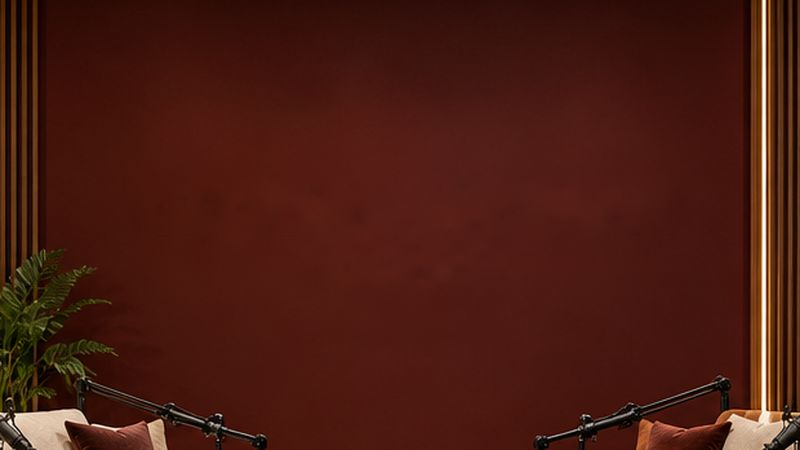
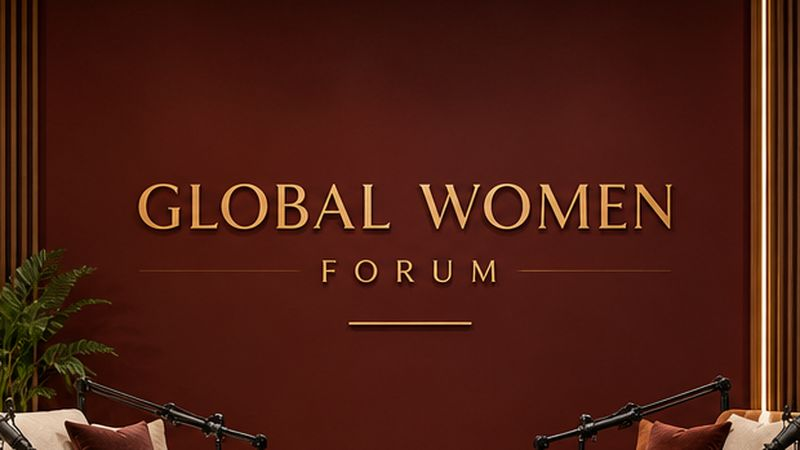
Restore wall lettering; studios Boardroom, Executive, Lounge; full-frame mobile hero; host bio
Claude-Session: https://claude.ai/code/session_01TFe7T9GAZdAJhXa4UkGFGh

diff --git a/index.html b/index.html
@@ -269,6 +269,23 @@ body::before { content: ""; position: fixed; inset: 0 0 auto; height: env(safe-a
 .program .btn { justify-self: start; }
 .programs-note { margin-top: 28px; font-size: var(--t-sm); color: rgba(255,244,234,.65); }
 
+/* Host */
+.host { padding-block: clamp(90px, 11vw, 150px); background: var(--paper); }
+.host .wrap { display: grid; grid-template-columns: 5fr 7fr; gap: clamp(36px, 6vw, 96px); align-items: start; }
+.host-photo { margin: 0; position: sticky; top: 40px; display: grid; gap: 12px; }
+.host-photo img, .host-mono { width: 100%; aspect-ratio: 4 / 5; object-fit: cover; border-radius: 6px; }
+.host-mono { display: grid; place-items: center; background: var(--bordo); color: var(--peach); font: 400 clamp(4rem, 3rem + 4vw, 7rem)/1 var(--f-display); font-style: italic; }
+.host-photo figcaption { font-size: var(--t-sm); color: var(--ink-soft); }
+.host-text { display: grid; gap: 18px; max-width: 64ch; }
+.host-text .label { color: var(--orange); }
+.host-text h2 { font-size: var(--t-h2); }
+.host-lead { font: 400 clamp(1.4rem, 1.1rem + 1vw, 1.9rem)/1.3 var(--f-display); }
+.host-text > p:not(.label):not(.host-lead) { color: var(--ink-soft); }
+.host-facts { list-style: none; margin: 10px 0 0; padding: 0; display: grid; grid-template-columns: repeat(3, minmax(0, 1fr)); gap: 16px; border-top: 1px solid var(--line); padding-top: 22px; }
+.host-facts li { display: grid; gap: 6px; font-size: var(--t-sm); color: var(--ink-soft); }
+.host-facts b { font: 400 2.4rem/1 var(--f-display); color: var(--orange); }
+.host-more { font-size: var(--t-sm); }
+
 /* Chamber */
 .chamber { background: var(--teal-deep); color: var(--cream); }
 .chamber-grid { display: grid; grid-template-columns: 1fr 1fr; min-height: 640px; }
@@ -425,6 +442,8 @@ body::before { content: ""; position: fixed; inset: 0 0 auto; height: env(safe-a
   .mag { grid-template-columns: minmax(0, 1fr); }
   .mag .btn { justify-self: start; }
   .chamber-grid { grid-template-columns: minmax(0, 1fr); }
+  .host .wrap { grid-template-columns: minmax(0, 1fr); }
+  .host-photo { position: static; max-width: 420px; }
   .chamber-text { padding-left: var(--gutter); }
   .steps { grid-template-columns: repeat(2, minmax(0, 1fr)); row-gap: 24px; }
   .botanic { --w: clamp(130px, 34vw, 220px); --op: .18; }
@@ -432,7 +451,14 @@ body::before { content: ""; position: fixed; inset: 0 0 auto; height: env(safe-a
 }
 @media (max-width: 600px) {
   .nav .btn { display: none; }
-  .hero .wrap { padding-block: 96px 24px; }
+  .hero { min-height: 0; display: block; background: var(--teal); }
+  .slides { position: relative; aspect-ratio: 3 / 2; }
+  .slide { object-position: 50% 50%; }
+  .hero::after { inset: 0 0 auto; height: 34vw; background: linear-gradient(180deg, rgba(6,26,26,.6), rgba(6,26,26,0)); }
+  .hero-glow { display: none; }
+  .hero .wrap { padding-block: 28px 22px; }
+  .hero-center { padding-bottom: 26px; }
+  .hero-center p { text-shadow: none; }
   .hero-ctas { width: 100%; flex-direction: column; }
   .story { font-size: .7rem; }
   .studio-top { margin-bottom: 14px; }
@@ -441,6 +467,7 @@ body::before { content: ""; position: fixed; inset: 0 0 auto; height: env(safe-a
   .studio-info dl:last-of-type { grid-column: 1 / -1; }
   .steps, .form, .plans { grid-template-columns: minmax(0, 1fr); }
   .price-list li { grid-template-columns: minmax(0, 1fr); }
+  .host-facts { grid-template-columns: minmax(0, 1fr); }
   .price-list .price { grid-column: 1; grid-row: auto; text-align: left; }
 }
 @media (prefers-reduced-motion: reduce) {
@@ -462,7 +489,7 @@ body::before { content: ""; position: fixed; inset: 0 0 auto; height: env(safe-a
       <li><a href="#cennik">Cennik</a></li>
       <li><a href="#pakiety">Pakiety TV</a></li>
       <li><a href="#programy">Programy</a></li>
-      <li><a href="#izba">O Izbie</a></li>
+      <li><a href="#prowadzaca">Prowadząca</a></li>
       <li><a href="#faq">FAQ</a></li>
       <li><a href="#rezerwacja">Rezerwacja</a></li>
     </ul>
@@ -474,9 +501,9 @@ body::before { content: ""; position: fixed; inset: 0 0 auto; height: env(safe-a
 <main id="top">
   <section class="hero" id="hero">
     <div class="slides">
-      <img class="slide is-active" src="assets/studio-teal-sunset.jpg" alt="Studio Oasis: dwa pomarańczowe aksamitne fotele i morska ściana z roślinami" width="1600" height="1067" fetchpriority="high">
-      <img class="slide" src="assets/studio-forum.jpg" alt="Studio Bordeaux: kremowa i rdzawa sofa z mikrofonami, okrągły stolik z orzecha i bordowa ściana" width="1600" height="1067">
-      <img class="slide" src="assets/studio-ivory-sculpture.jpg" alt="Studio Amber: kremowy stół i dwa bordowe fotele z mikrofonami" width="1600" height="1067">
+      <img class="slide is-active" src="assets/studio-teal-sunset.jpg" alt="Studio Lounge: dwa pomarańczowe aksamitne fotele i morska ściana z roślinami" width="1600" height="1067" fetchpriority="high">
+      <img class="slide" src="assets/studio-forum.jpg" alt="Studio Boardroom: kremowa i rdzawa sofa z mikrofonami, okrągły stolik z orzecha i bordowa ściana z logo" width="1600" height="1067">
+      <img class="slide" src="assets/studio-ivory-sculpture.jpg" alt="Studio Executive: kremowy stół i dwa bordowe fotele z mikrofonami" width="1600" height="1067">
     </div>
     <div class="hero-glow" id="hero-glow"></div>
     <div class="wrap">
@@ -489,9 +516,9 @@ body::before { content: ""; position: fixed; inset: 0 0 auto; height: env(safe-a
         </div>
       </div>
       <div class="stories" aria-label="Studia">
-        <button class="story is-active" type="button" data-slide="0"><span class="bar"><i></i></span><span>Oasis</span></button>
-        <button class="story" type="button" data-slide="1"><span class="bar"><i></i></span><span>Bordeaux</span></button>
-        <button class="story" type="button" data-slide="2"><span class="bar"><i></i></span><span>Amber</span></button>
+        <button class="story is-active" type="button" data-slide="0"><span class="bar"><i></i></span><span>Lounge</span></button>
+        <button class="story" type="button" data-slide="1"><span class="bar"><i></i></span><span>Boardroom</span></button>
+        <button class="story" type="button" data-slide="2"><span class="bar"><i></i></span><span>Executive</span></button>
       </div>
     </div>
   </section>
@@ -514,14 +541,14 @@ body::before { content: ""; position: fixed; inset: 0 0 auto; height: env(safe-a
     <section class="studio studio--forum has-plants">
       <span class="botanic" data-plant="sprig" style="right:-30px; top:-20px; --rot:-150deg; --w: clamp(150px, 16vw, 250px)"></span>
       <div class="wrap">
-        <div class="studio-top"><h2><em>Bordeaux</em></h2><span class="label">Największe studio · talk-show i panele</span></div>
-        <figure data-hotspots="forum"><img src="assets/studio-forum.jpg" alt="Plan Bordeaux z dwiema sofami i sześcioma mikrofonami" width="1600" height="1067" loading="lazy"></figure>
+        <div class="studio-top"><h2><em>Boardroom</em></h2><span class="label">Największe studio · panele i talk-show</span></div>
+        <figure data-hotspots="forum"><img src="assets/studio-forum.jpg" alt="Plan Boardroom z dwiema sofami i sześcioma mikrofonami" width="1600" height="1067" loading="lazy"></figure>
         <div class="studio-info">
           <p>Największe studio: dwie sofy, sześć mikrofonów i bordowa ściana w ciepłym świetle. Na talk-show, panele i rozmowy z kilkoma gośćmi.</p>
           <dl><dt>Goście</dt><dd>do 6 osób</dd></dl>
           <dl><dt>Format</dt><dd>wideo, live</dd></dl>
           <dl><dt>Cena</dt><dd>1800 zł / h</dd></dl>
-          <button class="btn btn--cream" type="button" data-studio="Bordeaux">Rezerwuj <span class="arrow">→</span></button>
+          <button class="btn btn--cream" type="button" data-studio="Boardroom">Rezerwuj <span class="arrow">→</span></button>
         </div>
       </div>
     </section>
@@ -529,14 +556,14 @@ body::before { content: ""; position: fixed; inset: 0 0 auto; height: env(safe-a
     <section class="studio studio--ivory has-plants">
       <span class="botanic" data-plant="fern" style="left:-50px; bottom:-60px; --rot:24deg"></span>
       <div class="wrap">
-        <div class="studio-top"><h2><em>Amber</em></h2><span class="label">Rozmowa w cztery oczy</span></div>
-        <figure data-hotspots="ivory"><img src="assets/studio-ivory-sculpture.jpg" alt="Studio Amber: kremowy stół na żłobionych kolumnach i dwa bordowe fotele z mikrofonami" width="1600" height="1067" loading="lazy"></figure>
+        <div class="studio-top"><h2><em>Executive</em></h2><span class="label">Rozmowa w cztery oczy</span></div>
+        <figure data-hotspots="ivory"><img src="assets/studio-ivory-sculpture.jpg" alt="Studio Executive: kremowy stół na żłobionych kolumnach i dwa bordowe fotele z mikrofonami" width="1600" height="1067" loading="lazy"></figure>
         <div class="studio-info">
           <p>Jasne wnętrze z terakotową ścianą i rzeźbiarskim stołem. Do rozmowy w cztery oczy.</p>
           <dl><dt>Goście</dt><dd>2 osoby</dd></dl>
           <dl><dt>Format</dt><dd>podcast, wywiad</dd></dl>
           <dl><dt>Cena</dt><dd>od 1000 zł / h</dd></dl>
-          <button class="btn btn--cream" type="button" data-studio="Amber">Rezerwuj <span class="arrow">→</span></button>
+          <button class="btn btn--cream" type="button" data-studio="Executive">Rezerwuj <span class="arrow">→</span></button>
         </div>
       </div>
     </section>
@@ -544,14 +571,14 @@ body::before { content: ""; position: fixed; inset: 0 0 auto; height: env(safe-a
     <section class="studio studio--teal has-plants">
       <span class="botanic" data-plant="banana" style="right:-120px; bottom:-150px; --rot:-30deg"></span>
       <div class="wrap">
-        <div class="studio-top"><h2><em>Oasis</em></h2><span class="label">Zielona oaza rozmów</span></div>
-        <figure data-hotspots="teal"><img src="assets/studio-teal-sunset.jpg" alt="Studio Oasis: pomarańczowe aksamitne fotele, srebrny stolik i ściana z roślin w ciepłym świetle" width="1600" height="1067" loading="lazy"></figure>
+        <div class="studio-top"><h2><em>Lounge</em></h2><span class="label">Swobodne rozmowy i rolki</span></div>
+        <figure data-hotspots="teal"><img src="assets/studio-teal-sunset.jpg" alt="Studio Lounge: pomarańczowe aksamitne fotele, srebrny stolik i ściana z roślin w ciepłym świetle" width="1600" height="1067" loading="lazy"></figure>
         <div class="studio-info">
           <p>Morska zieleń, pomarańczowy aksamit i ściana z roślin. Na rozmowy w duecie i nagrania do social mediów.</p>
           <dl><dt>Goście</dt><dd>2 osoby</dd></dl>
           <dl><dt>Format</dt><dd>podcast, rolki</dd></dl>
           <dl><dt>Cena</dt><dd>od 1000 zł / h</dd></dl>
-          <button class="btn btn--cream" type="button" data-studio="Oasis">Rezerwuj <span class="arrow">→</span></button>
+          <button class="btn btn--cream" type="button" data-studio="Lounge">Rezerwuj <span class="arrow">→</span></button>
         </div>
       </div>
     </section>
@@ -566,8 +593,8 @@ body::before { content: ""; position: fixed; inset: 0 0 auto; height: env(safe-a
       </div>
       <div>
         <ul class="price-list">
-          <li><h3>Nagranie wideo</h3><p>Godzina w studiu Amber lub Oasis z realizatorem. Dostajesz surowy materiał wideo i audio.</p><span class="price">od 1000 zł<small>za godzinę</small></span></li>
-          <li><h3>Studio Bordeaux</h3><p>Nasze największe studio: dwie sofy i sześć mikrofonów. Godzina z realizatorem, surowy materiał wideo i audio.</p><span class="price">1800 zł<small>za godzinę</small></span></li>
+          <li><h3>Nagranie wideo</h3><p>Godzina w studiu Executive lub Lounge z realizatorem. Dostajesz surowy materiał wideo i audio.</p><span class="price">od 1000 zł<small>za godzinę</small></span></li>
+          <li><h3>Studio Boardroom</h3><p>Nasze największe studio: dwie sofy i sześć mikrofonów. Godzina z realizatorem, surowy materiał wideo i audio.</p><span class="price">1800 zł<small>za godzinę</small></span></li>
           <li><h3>Zmontowany odcinek</h3><p>Nagranie, montaż, korekta dźwięku i koloru, napisy. Gotowy do publikacji.</p><span class="price">od 1500 zł<small>za odcinek</small></span></li>
           <li><h3>Odcinek i 3 rolki</h3><p>Gotowe, zmontowane wideo oraz 3 rolki promocyjne do mediów społecznościowych.</p><span class="price">od 2500 zł<small>za odcinek</small></span></li>
           <li><h3>Wydarzenia i sala konferencyjna</h3><p>Nagranie lub transmisja konferencji, szkolenia, panelu. Do 40 osób.</p><span class="price">wycena<small>indywidualna</small></span></li>
@@ -577,7 +604,7 @@ body::before { content: ""; position: fixed; inset: 0 0 auto; height: env(safe-a
           <div class="calc-row"><span>Co potrzebujesz</span>
             <div class="seg">
               <label><input type="radio" name="variant" value="Nagranie wideo (surowy materiał)" data-rate="1000" data-unit="h" checked><span>Surowe nagranie</span></label>
-              <label><input type="radio" name="variant" value="Wynajem studia Bordeaux" data-rate="1800" data-unit="h"><span>Bordeaux, godzina</span></label>
+              <label><input type="radio" name="variant" value="Wynajem studia Boardroom" data-rate="1800" data-unit="h"><span>Boardroom, godzina</span></label>
               <label><input type="radio" name="variant" value="Zmontowany odcinek" data-rate="1500" data-unit="odc"><span>Zmontowany odcinek</span></label>
               <label><input type="radio" name="variant" value="Odcinek i 3 rolki" data-rate="2500" data-unit="odc"><span>Odcinek i 3 rolki</span></label>
             </div>
@@ -607,7 +634,7 @@ body::before { content: ""; position: fixed; inset: 0 0 auto; height: env(safe-a
           <h3>Start</h3>
           <p class="amount">1900 zł<small>netto</small></p>
           <ul>
-            <li>Wywiad do 20 minut w studiu Amber lub Oasis</li>
+            <li>Wywiad do 20 minut w studiu Executive lub Lounge</li>
             <li>Montaż i napisy</li>
             <li>1 rolka promocyjna</li>
             <li>Publikacja w Global Women TV</li>
@@ -635,7 +662,7 @@ body::before { content: ""; position: fixed; inset: 0 0 auto; height: env(safe-a
           <ul>
             <li>60 minut konsultacji online przed nagraniem</li>
             <li>Profesjonalny makijaż przed wejściem na plan</li>
-            <li>Wywiad do 60 minut w studiu Bordeaux</li>
+            <li>Wywiad do 60 minut w studiu Boardroom</li>
             <li>Montaż, napisy i miniatura</li>
             <li>5 rolek promocyjnych</li>
             <li>10 zdjęć portretowych z planu</li>
@@ -671,7 +698,7 @@ body::before { content: ""; position: fixed; inset: 0 0 auto; height: env(safe-a
           <h3>Global Women <em>Premium</em></h3>
           <p class="program-for">Dla doświadczonych przedsiębiorczyń, które działają globalnie.</p>
           <ul>
-            <li>Wywiad wideo w studiu Bordeaux, zmontowany, z 3 rolkami</li>
+            <li>Wywiad wideo w studiu Boardroom, zmontowany, z 3 rolkami</li>
             <li>Profil w magazynie Business Women IMPACT</li>
             <li>Promocja w sieci Izby w 16 krajach</li>
             <li>Zamknięte spotkania grupy 25 liderek</li>
@@ -749,6 +776,29 @@ body::before { content: ""; position: fixed; inset: 0 0 auto; height: env(safe-a
     </div>
   </section>
 
+  <section class="host" id="prowadzaca">
+    <div class="wrap">
+      <figure class="host-photo" id="host-photo">
+        <div class="host-mono" aria-hidden="true">PCM</div>
+        <figcaption>Patricia Claudia Mitro</figcaption>
+      </figure>
+      <div class="host-text">
+        <p class="label">Prowadząca programy i Global Women TV</p>
+        <h2>Patricia <em>Claudia Mitro</em></h2>
+        <p class="host-lead">Prawniczka, mentorka Global Women’s Leadership, certyfikowana coachka ICI, doradczyni kariery oraz mentorka w obszarze tradingu i inteligencji finansowej.</p>
+        <p>Od blisko dwudziestu lat tworzy inicjatywy wspierające rozwój gospodarczy kobiet i ich udział w międzynarodowym biznesie. Jako Prezydentka Polish Women Chamber of Commerce reprezentuje przedsiębiorczynie i buduje partnerstwa z administracją, dyplomacją, izbami gospodarczymi i uczelniami. Zainicjowała Global Women Chamber of Commerce, która łączy przedsiębiorczynie, inwestorów i instytucje z wielu krajów.</p>
+        <p>Jest założycielką i redaktorką naczelną magazynu Business Women IMPACT oraz twórczynią Global Women TV. Jako prezeska GLOBAL WOMEN INVESTMENT, MEDIA &amp; INSURANCE GROUP rozwija projekty łączące biznes, media, technologie i komunikację strategiczną, w tym personal branding premium dla ekspertek i liderek.</p>
+        <p>Jako mentorka inwestycyjna promuje odpowiedzialne budowanie kapitału oparte na wiedzy, świadomości ryzyka i myśleniu długoterminowym. Ukończyła seminaria doktoranckie i studia podyplomowe z doradztwa zawodowego w Akademii Nauk Społecznych i Medycznych w Lublinie.</p>
+        <ul class="host-facts">
+          <li><b>150+</b>inicjatyw biznesowych, edukacyjnych i wydawniczych</li>
+          <li><b>100 000+</b>kobiet, do których dotarły jej projekty</li>
+          <li><b>2022</b>wyróżnienie Equality Leaders od Forbes Women i Ambasady Brytyjskiej</li>
+        </ul>
+        <p class="host-more">Członkini Krajowego Prezydium Rad Kobiet. Współautorka krajowych raportów o ESG i obronie cywilnej. Autorka książek „Przestań czekać – zacznij żyć” i „Przewodnik do spełnionego życia: 50 metod i ćwiczeń”. Mówi po polsku, angielsku i słowacku.</p>
+      </div>
+    </div>
+  </section>
+
   <section class="chamber has-plants" id="izba">
     <div class="chamber-grid">
       <div class="chamber-photo"><img src="assets/studio-teal-sunset.jpg" alt="" width="1600" height="1067" loading="lazy"></div>
@@ -821,7 +871,7 @@ body::before { content: ""; position: fixed; inset: 0 0 auto; height: env(safe-a
           <select id="f-service" name="service">
             <optgroup label="Nagranie">
               <option>Nagranie wideo (surowy materiał)</option>
-              <option>Wynajem studia Bordeaux</option>
+              <option>Wynajem studia Boardroom</option>
               <option>Zmontowany odcinek</option>
               <option>Odcinek i 3 rolki</option>
               <option>Wydarzenie lub sala konferencyjna</option>
@@ -845,9 +895,9 @@ body::before { content: ""; position: fixed; inset: 0 0 auto; height: env(safe-a
         <div class="field"><label for="f-studio">Studio</label>
           <select id="f-studio" name="studio">
             <option>Bez preferencji</option>
-            <option>Bordeaux</option>
-            <option>Amber</option>
-            <option>Oasis</option>
+            <option>Boardroom</option>
+            <option>Executive</option>
+            <option>Lounge</option>
           </select>
         </div>
         <div class="field field--full"><label for="f-hours">Czas nagrania</label>
@@ -976,7 +1026,7 @@ body::before { content: ""; position: fixed; inset: 0 0 auto; height: env(safe-a
           </ol>
           <h3>§2. Usługi</h3>
           <ol>
-            <li>Usługodawca świadczy usługi: nagrania wideo z przekazaniem surowego materiału, wynajmu studia Bordeaux, nagrania z montażem odcinka, nagrania z montażem i rolkami promocyjnymi, obsługi wydarzeń, pakietów Global Women TV oraz programów Global Women Premium, Polish Women Business i Women Entrepreneur.</li>
+            <li>Usługodawca świadczy usługi: nagrania wideo z przekazaniem surowego materiału, wynajmu studia Boardroom, nagrania z montażem odcinka, nagrania z montażem i rolkami promocyjnymi, obsługi wydarzeń, pakietów Global Women TV oraz programów Global Women Premium, Polish Women Business i Women Entrepreneur.</li>
             <li>Ceny podane na stronie są cenami netto, do których dolicza się podatek VAT według obowiązującej stawki. Ceny oznaczone słowem „od” są cenami minimalnymi. Ostateczną cenę Usługodawca podaje w potwierdzeniu rezerwacji.</li>
           </ol>
           <h3>§3. Rezerwacja i zawarcie umowy</h3>
@@ -1089,6 +1139,8 @@ const CONFIG = {
     court: "Sąd Rejonowy dla m.st. Warszawy w Warszawie, Wydział Gospodarczy KRS"
   },
   docsDate: "22 października 2026",
+  // Zdjęcie prowadzącej, np. "assets/patricia-claudia-mitro.jpg". Puste = monogram.
+  hostPhoto: "",
   formEndpoint: "",
   // Godziny otwarcia studia: [otwarcie, zamknięcie] dla pn–nd; null = zamknięte.
   hours: [[9, 20], [9, 20], [9, 20], [9, 20], [9, 20], [10, 16], null],
@@ -1101,20 +1153,20 @@ const CONFIG = {
 
 // Kadry do paska na dole strony. Dodaj tu zdjęcia z prawdziwych nagrań: { src, title, note }.
 const FRAMES = [
-  { src: "assets/frames/forum-salon.jpg", title: "Bordeaux", note: "Panel dyskusyjny" },
-  { src: "assets/frames/ivory-mic.jpg", title: "Amber", note: "Wywiad ekspercki" },
-  { src: "assets/frames/teal-set.jpg", title: "Oasis", note: "Rozmowa w duecie" },
-  { src: "assets/frames/forum-wall.jpg", title: "Bordeaux", note: "Otwarcie odcinka" },
-  { src: "assets/frames/ivory-chair.jpg", title: "Amber", note: "Ujęcie detalu" },
-  { src: "assets/frames/teal-plants.jpg", title: "Oasis", note: "Kamera boczna" },
-  { src: "assets/frames/forum-sofa.jpg", title: "Bordeaux", note: "Plan szeroki" },
-  { src: "assets/frames/ivory-set.jpg", title: "Amber", note: "Podcast wideo" },
-  { src: "assets/frames/teal-chair.jpg", title: "Oasis", note: "Rolka pionowa" },
-  { src: "assets/frames/forum-velvet.jpg", title: "Bordeaux", note: "Talk-show" },
-  { src: "assets/frames/ivory-wall.jpg", title: "Amber", note: "Plan główny" },
-  { src: "assets/frames/teal-wall.jpg", title: "Oasis", note: "Morska ściana" },
-  { src: "assets/frames/teal-mic.jpg", title: "Oasis", note: "Mikrofon lektorski" },
-  { src: "assets/frames/forum-table.jpg", title: "Bordeaux", note: "Przerywnik" }
+  { src: "assets/frames/forum-salon.jpg", title: "Boardroom", note: "Panel dyskusyjny" },
+  { src: "assets/frames/ivory-mic.jpg", title: "Executive", note: "Wywiad ekspercki" },
+  { src: "assets/frames/teal-set.jpg", title: "Lounge", note: "Rozmowa w duecie" },
+  { src: "assets/frames/forum-wall.jpg", title: "Boardroom", note: "Otwarcie odcinka" },
+  { src: "assets/frames/ivory-chair.jpg", title: "Executive", note: "Ujęcie detalu" },
+  { src: "assets/frames/teal-plants.jpg", title: "Lounge", note: "Kamera boczna" },
+  { src: "assets/frames/forum-sofa.jpg", title: "Boardroom", note: "Plan szeroki" },
+  { src: "assets/frames/ivory-set.jpg", title: "Executive", note: "Podcast wideo" },
+  { src: "assets/frames/teal-chair.jpg", title: "Lounge", note: "Rolka pionowa" },
+  { src: "assets/frames/forum-velvet.jpg", title: "Boardroom", note: "Talk-show" },
+  { src: "assets/frames/ivory-wall.jpg", title: "Executive", note: "Plan główny" },
+  { src: "assets/frames/teal-wall.jpg", title: "Lounge", note: "Ujęcie na logo" },
+  { src: "assets/frames/teal-mic.jpg", title: "Lounge", note: "Mikrofon lektorski" },
+  { src: "assets/frames/forum-table.jpg", title: "Boardroom", note: "Przerywnik" }
 ];
 
 const reduced = matchMedia("(prefers-reduced-motion: reduce)").matches;
@@ -1122,6 +1174,11 @@ const $ = id => document.getElementById(id);
 document.querySelectorAll("[data-cfg]").forEach(el => { el.textContent = CONFIG[el.dataset.cfg]; });
 for (const k of Object.keys(CONFIG.company)) document.querySelectorAll(".co-" + k).forEach(el => { el.textContent = CONFIG.company[k]; });
 document.querySelectorAll(".doc-date").forEach(el => { el.textContent = CONFIG.docsDate; });
+if (CONFIG.hostPhoto) {
+  const img = document.createElement("img");
+  img.src = CONFIG.hostPhoto; img.alt = "Patricia Claudia Mitro"; img.loading = "lazy";
+  document.querySelector("#host-photo .host-mono").replaceWith(img);
+}
 $("year").textContent = new Date().getFullYear();
 
 /* Legal documents and cookie notice */
@@ -1484,7 +1541,7 @@ $("copy").addEventListener("click", e => {
   const SPOTS = {
     forum: [
       { x: 29, y: 47, t: "Sześć mikrofonów", d: "Mikrofony lektorskie na ramionach przy obu sofach. Każdy gość ma własną ścieżkę." },
-      { x: 67, y: 30, t: "Bordowa ściana", d: "Głęboki bordo w ciepłym świetle. Tło każdego ujęcia głównego." },
+      { x: 67, y: 30, t: "Ściana z logo", d: "Podświetlona ściana z logo GLOBAL WOMEN FORUM. Tło każdego ujęcia głównego." },
       { x: 50, y: 65, t: "Stolik na rekwizyty", d: "Miejsce na produkty, książki i materiały marki widoczne w kadrze." },
       { x: 15, y: 28, t: "Regały z oświetleniem", d: "Ciepłe światło LED na półkach daje głębię w planie szerokim." }
     ],
